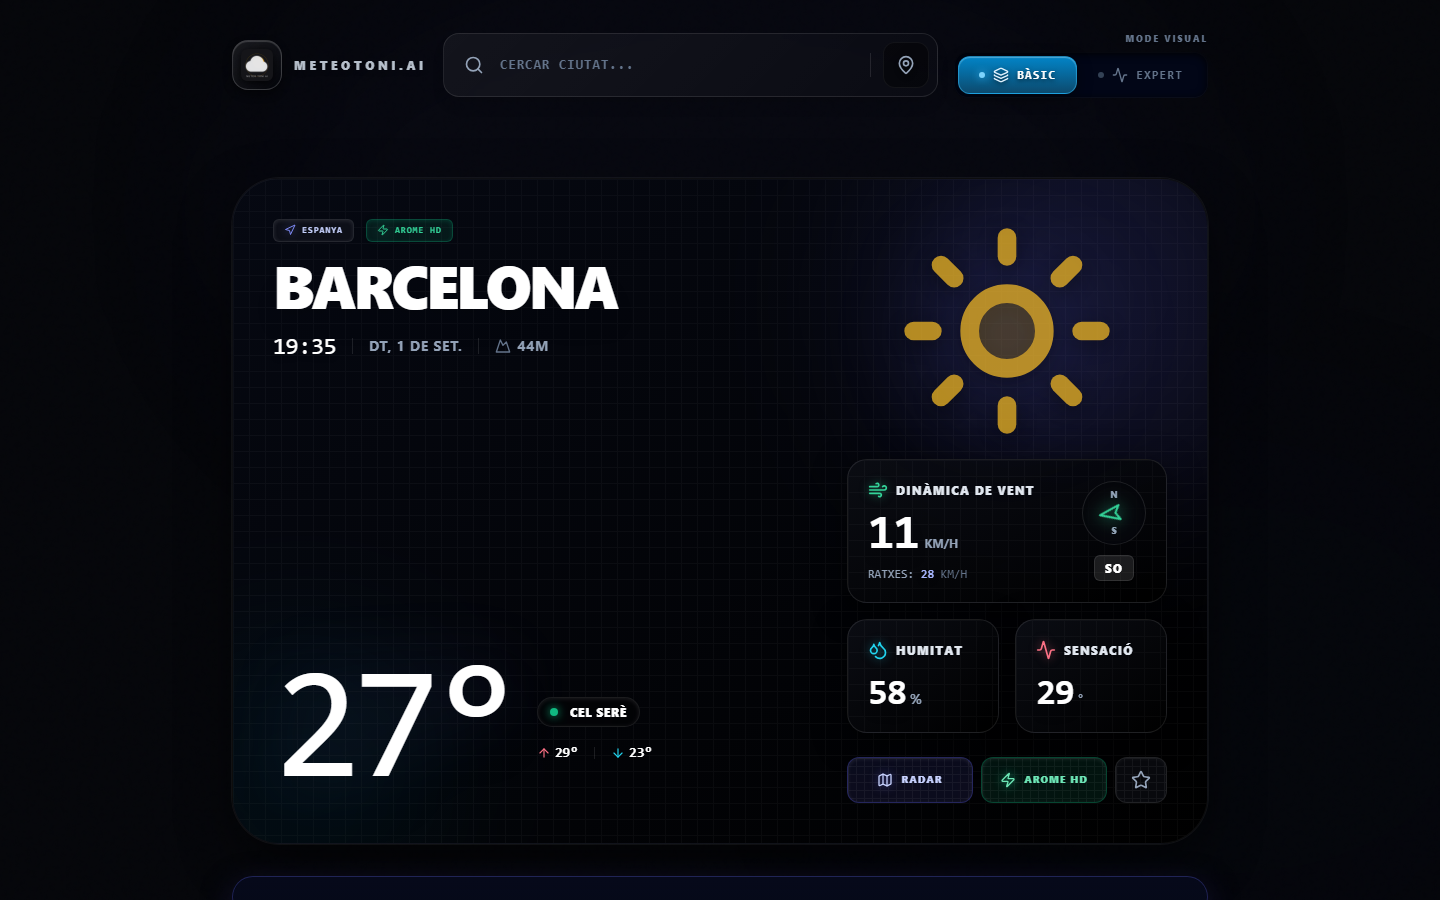
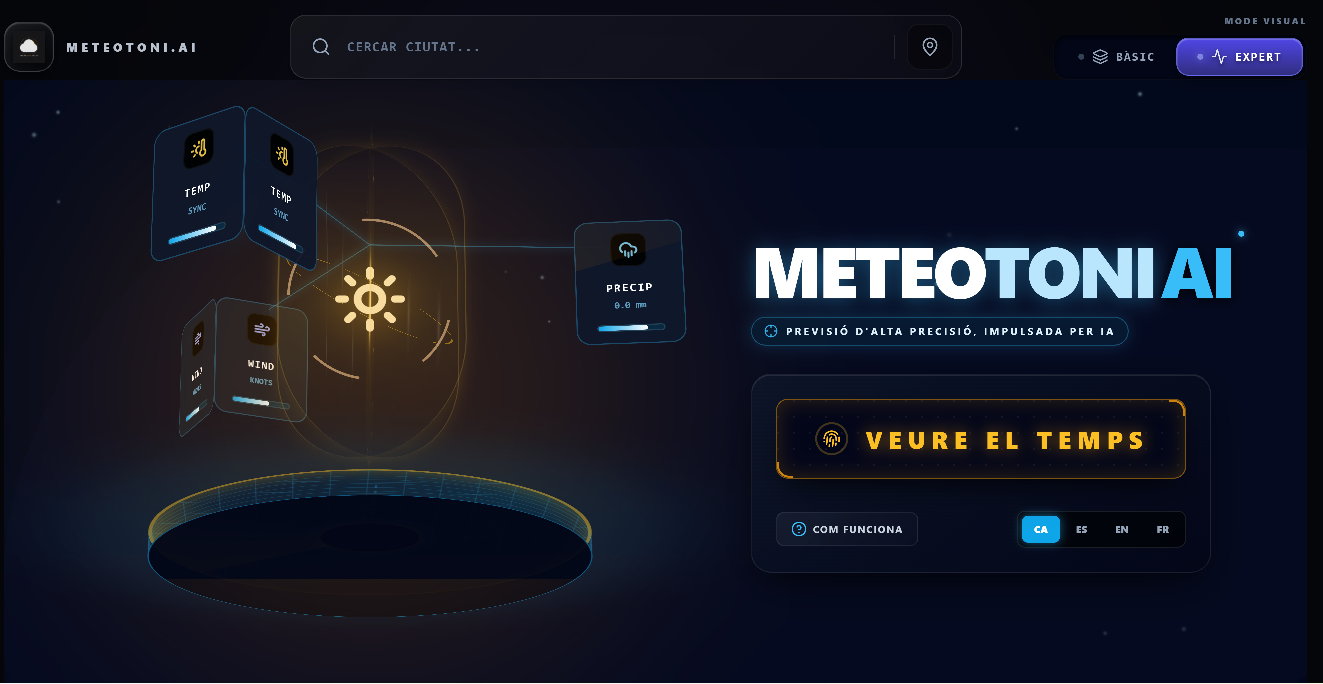
docs: actualitza captures de pantalla del README i corregeix meta tag PWA
Renova les tres captures del README (desactualitzades des de l'1 de
setembre) amb l'estat real actual de l'app i ajusta els textos alt/
llegendes perquè el descriguin fidelment.

Afegeix <meta name="mobile-web-app-capable"> a index.html al costat de
l'equivalent d'Apple, que es manté per a iOS/Safari — elimina l'avís de
deprecation que Chrome mostrava a la consola.

diff --git a/index.html b/index.html
@@ -7,6 +7,7 @@
     <link rel="apple-touch-icon" sizes="180x180" href="/apple-touch-icon.png" />
     <meta name="apple-mobile-web-app-title" content="MeteoToniAI" />
     <meta name="apple-mobile-web-app-capable" content="yes" />
+    <meta name="mobile-web-app-capable" content="yes" />
     <meta name="theme-color" content="#05060A" />
 
     <title>MeteoToni AI | El Temps: IA, ECMWF i AROME HD</title>

diff --git a/README.md b/README.md
@@ -20,18 +20,18 @@ MeteoToni AI és exclusivament una eina d'informació analítica. Proporciona da
 ## ✨ Visió General de la Interfície (Spatial UI)
 
 <div align="center">
-  <img src="./public/screenshot-desktop.png" alt="Tauler Principal Escriptori" width="800" style="border-radius: 10px; box-shadow: 0 4px 15px rgba(56,189,248,0.2);">
-  <p><em>El tauler principal (HUD) amb disseny Spatial UI i Neo-Skeuomorfisme, mostrant telemetria meteorològica i diagnòstics de sistema.</em></p>
+  <img src="./public/screenshot-desktop.png" alt="Pantalla d'Inici Escriptori" width="800" style="border-radius: 10px; box-shadow: 0 4px 15px rgba(56,189,248,0.2);">
+  <p><em>La pantalla d'inici amb disseny Spatial UI i Neo-Skeuomorfisme, punt de partida per cercar qualsevol ubicació del món.</em></p>
 </div>
 
 <br/>
 
 <div align="center" style="display: flex; justify-content: center; gap: 20px;">
-  <img src="./public/screenshot-mobile.png" alt="Vista Mòbil AROME" width="300" style="border-radius: 10px; box-shadow: 0 4px 15px rgba(56,189,248,0.2);">
-  <img src="./public/screenshot-mobile-widgets.png" alt="Widgets Avançats" width="300" style="border-radius: 10px; box-shadow: 0 4px 15px rgba(56,189,248,0.2);">
+  <img src="./public/screenshot-mobile.png" alt="Vista Mòbil Condicions Actuals" width="300" style="border-radius: 10px; box-shadow: 0 4px 15px rgba(56,189,248,0.2);">
+  <img src="./public/screenshot-mobile-widgets.png" alt="Telemetria Multimodel" width="300" style="border-radius: 10px; box-shadow: 0 4px 15px rgba(56,189,248,0.2);">
 </div>
 <div align="center">
-  <p><em>Esquerra: Previsió horària d'alta resolució AROME HD. Dreta: Consensus Widget analitzant discrepàncies entre models.</em></p>
+  <p><em>Esquerra: Condicions actuals en temps real. Dreta: Telemetria gràfica completa comparant AROME HD amb els models globals.</em></p>
 </div>
 
 ---
